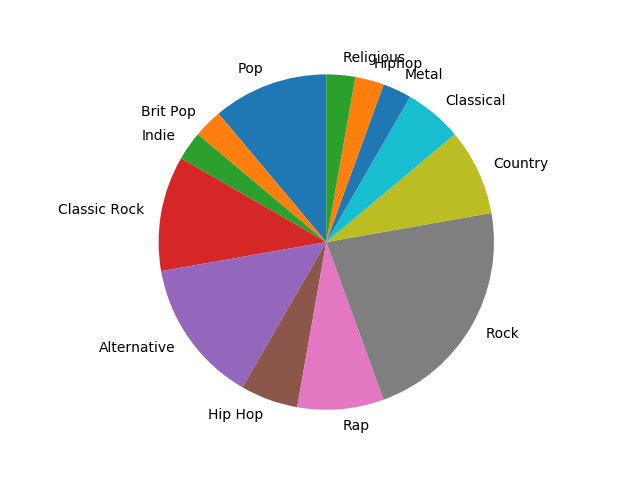
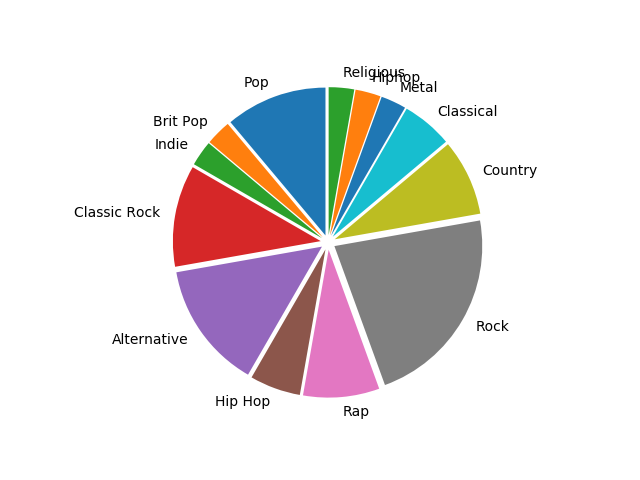
added other threshold so that if data was small enough it would fall in that section

Changed region(s): [[0.0938, 0.0938, 0.8438, 0.9062], [0.625, 0.3438, 0.6562, 0.375], [0.5938, 0.375, 0.625, 0.4062]]

diff --git a/get-data.py b/get-data.py
@@ -65,26 +65,32 @@ if __name__ == '__main__':
 
 
 
-        for var, values in data.items():
+    for var, values in data.items():
 
-            plt.bar([f'{age_groups[i][0]}-{age_groups[i][1]-1}' for i in range(6)], values)
-            plt.xlabel("Age Groups")
-            plt.ylabel(var)
-            plt.title(f'Favourite genre breakdown of {age_groups[i][0]}-{age_groups[i][1]-1} year olds')
-            plt.savefig(f"Age groups vs. {var}.png")
-            plt.close()
-        for i,j in enumerate(genre_data):
-            plt.figure(figsize=(12, 5.0))
-            plt.title(f'{age_groups[i][0]}-{age_groups[i][1]-1}')
-            labels=[i[0] for i in j]
-            values=[i[1] for i in j]
+        plt.bar([f'{age_groups[i][0]}-{age_groups[i][1]-1}' for i in range(6)], values)
+        plt.xlabel("Age Groups")
+        plt.ylabel(var)
+        plt.title(f"Age groups vs. {var}.png")
+        plt.savefig(f"Age groups vs. {var}.png")
+        plt.close()
+    other_threshold=0.02
+    for i,j in enumerate(genre_data):
+        plt.figure(figsize=(12, 5.0))
+        plt.title(f'{age_groups[i][0]}-{age_groups[i][1]-1}')
 
-
-            fig1, ax1 = plt.subplots()
-            ax1.pie(values,labels=labels,startangle=90)
-            ax1.axis('equal')
-            plt.savefig(f'Favourite genre breakdown of {age_groups[i][0]}-{age_groups[i][1]-1} year olds')
-            plt.close()
+        size=len(age_partitions.get_group(i))
+        other_tot=sum(i[1] for i in j if i[1]<size*other_threshold)
+        labels=[i[0] for i in j if i[1]>=size*other_threshold]
+        values=[i[1] for i in j if i[1]>=size*other_threshold]
+        if other_tot>0:
+            labels+=["Other"]
+            values+=[other_tot]
+        print(labels)
+        print(values)
+        fig1, ax1 = plt.subplots()
+        ax1.pie(values,labels=labels,startangle=90,explode=[0.05 for i in range(len(values))])
+        plt.savefig(f'Favourite genre breakdown of {age_groups[i][0]}-{age_groups[i][1]-1} year olds')
+        plt.close()
 
 
 
